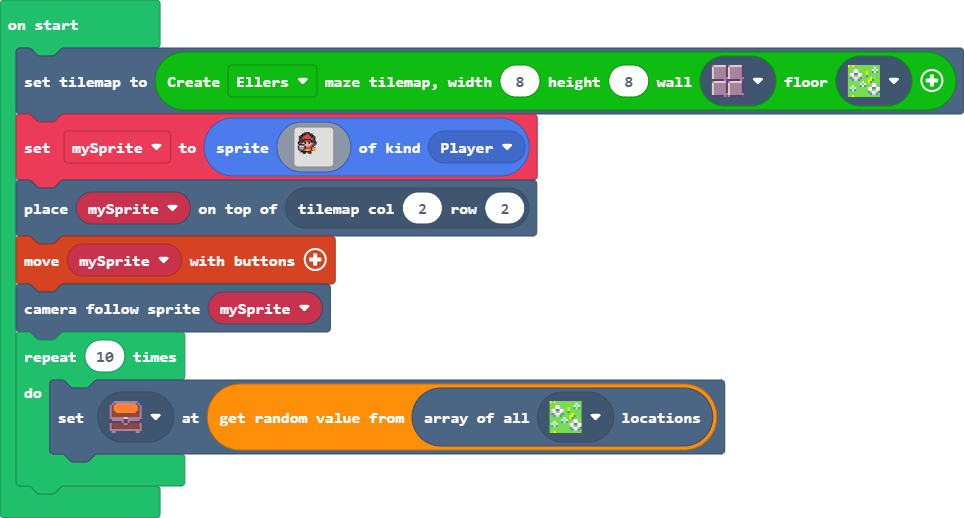
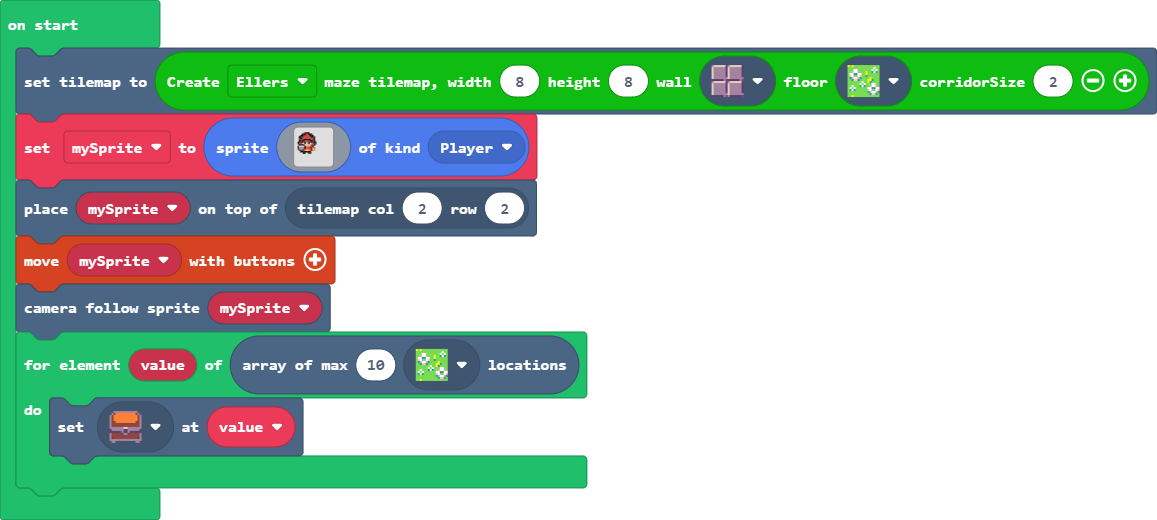
Now using FastRandom. Also added TilemapExt with block for sampling tile locations.

Changed region(s): [[0.0, 0.0, 0.9959, 1.0], [0.0, 0.0309, 0.0934, 0.0618], [0.0311, 0.9266, 0.0622, 0.9575]]

diff --git a/maze.ts b/maze.ts
@@ -6,7 +6,6 @@ enum MazeAlgorithm {
 
 //% weight=100 color=#0fbc11 icon="╬"
 namespace maze {
-
     /**
      * Generates a maze using the chosen algorithm
      * @param mazeWidth width of maze
@@ -15,15 +14,16 @@ namespace maze {
      * @param floor tile to use for floors
      * @param corridorSize width of corridors
      */
-    //% block="Create $algorithm maze tilemap, width $mazeWidth height $mazeHeight wall $wall floor $floor || corridorSize $corridorSize"
+    //% block="Create $algorithm maze tilemap, width $mazeWidth height $mazeHeight wall $wall floor $floor || corridorSize $corridorSize seed $seed"
     //% wall.shadow=tileset_tile_picker
     //% floor.shadow=tileset_tile_picker
     //% corridorSize.defl=2
     //% inlineInputMode=inline
-    export function generateTilemap(algorithm: MazeAlgorithm, mazeWidth: number, mazeHeight: number, wall: Image, floor: Image, corridorSize?: number): tiles.TileMapData {
-        return algorithm === MazeAlgorithm.BinaryTree ? generateBinaryTreeTilemap(mazeWidth, mazeHeight, wall, floor, corridorSize || 2) :
-            algorithm === MazeAlgorithm.Sidewinder ? generateSidewinderTilemap(mazeWidth, mazeHeight, wall, floor, corridorSize || 2) :
-            generateEllersTilemap(mazeWidth, mazeHeight, wall, floor, corridorSize || 2);
+    export function generateTilemap(algorithm: MazeAlgorithm, mazeWidth: number, mazeHeight: number, wall: Image, floor: Image, corridorSize?: number, seed?:number|undefined): tiles.TileMapData {
+        const rng = new Math.FastRandom(seed);
+        return algorithm === MazeAlgorithm.BinaryTree ? generateBinaryTreeTilemap(rng, mazeWidth, mazeHeight, wall, floor, corridorSize || 2) :
+            algorithm === MazeAlgorithm.Sidewinder ? generateSidewinderTilemap(rng, mazeWidth, mazeHeight, wall, floor, corridorSize || 2) :
+                generateEllersTilemap(rng, mazeWidth, mazeHeight, wall, floor, corridorSize || 2);
     }
 
     function createTilemap(mazeWidth: number, mazeHeight: number, corridorSize: number, tmTiles: Image[]): tiles.TileMapData {
@@ -51,7 +51,7 @@ namespace maze {
         return arr 
     }
 
-    function generateBinaryTreeTilemap(mazeWidth: number, mazeHeight: number, wall: Image, floor: Image, corridorSize: number): tiles.TileMapData {
+    function generateBinaryTreeTilemap(rng: Math.FastRandom, mazeWidth: number, mazeHeight: number, wall: Image, floor: Image, corridorSize: number): tiles.TileMapData {
         let tmData = createTilemap(mazeWidth,mazeHeight,corridorSize,[floor,wall]);
         fillWalls(tmData);
 
@@ -69,7 +69,7 @@ namespace maze {
                     // If right edge, carve down
                     x === xMax ? [0,1] :
                     // Pick random
-                    Math.randomRange(0,1) ? [1,0]: [0,1];
+                    rng.randomBool() ? [1,0]: [0,1];
                 // Set floor
                 for (let by = 0; by < corridorSize + cy; ++by)
                     for (let bx = 0; bx < corridorSize + cx; ++bx) {
@@ -81,7 +81,7 @@ namespace maze {
         return tmData;
     }
 
-    function generateSidewinderTilemap(mazeWidth: number, mazeHeight: number, wall: Image, floor: Image, corridorSize: number): tiles.TileMapData {
+    function generateSidewinderTilemap(rng: Math.FastRandom, mazeWidth: number, mazeHeight: number, wall: Image, floor: Image, corridorSize: number): tiles.TileMapData {
         // https://weblog.jamisbuck.org/2011/2/3/maze-generation-sidewinder-algorithm.html
         let tmData = createTilemap(mazeWidth, mazeHeight, corridorSize, [floor, wall]);
         fillWalls(tmData);
@@ -106,7 +106,7 @@ namespace maze {
                     // If right edge, carve down
                     x === xMax ? [0,1] :
                     // Pick random
-                    Math.randomRange(0,1) ? [1,0]: [0,1];
+                    rng.randomBool() ? [1,0]: [0,1];
                 
                 if(cx === 1) {
                     tx += corridorSize;
@@ -118,7 +118,7 @@ namespace maze {
                 } 
                 if(cy === 1){
                     ty += corridorSize;
-                    tx = Math.randomRange(start,end) * (corridorSize + 1) + 1;
+                    tx = rng.randomRange(start,end) * (corridorSize + 1) + 1;
                     for (let i = 0; i < corridorSize; ++i) {
                         tmData.setTile(tx+i, ty, 0);
                         tmData.setWall(tx+i, ty, false);
@@ -130,7 +130,7 @@ namespace maze {
         return tmData;
     }
 
-    function generateEllersTilemap(mazeWidth: number, mazeHeight: number, wall: Image, floor: Image, corridorSize: number): tiles.TileMapData {
+    function generateEllersTilemap(rng: Math.FastRandom, mazeWidth: number, mazeHeight: number, wall: Image, floor: Image, corridorSize: number): tiles.TileMapData {
         // https://weblog.jamisbuck.org/2010/12/29/maze-generation-eller-s-algorithm#
         let tmData = createTilemap(mazeWidth, mazeHeight, corridorSize, [floor, wall]);
         fillWalls(tmData);
@@ -144,7 +144,7 @@ namespace maze {
             for (let x = 0; x < mazeWidth; x++) {
                 let tx = x * (corridorSize + 1) + 1;
                 
-                const shouldMergeRight = x < xMax && currentRow[x] !== currentRow[x+1] && (y == yMax || Math.randomRange(0, 1));
+                const shouldMergeRight = x < xMax && currentRow[x] !== currentRow[x+1] && (y == yMax || rng.randomBool());
 
                 if (shouldMergeRight ) {
                     const setToAbsorb = currentRow[x + 1];
@@ -175,13 +175,13 @@ namespace maze {
             for (const s of Object.keys(sets)) {
                 let xs = sets[s];
                 for (let i = xs.length - 1; i > 0; i--) {
-                    const j = Math.floor(Math.random() * i);
+                    const j = Math.floor(rng.randomRange(0,i));
                     const k = xs[i];
                     xs[i] = xs[j];
                     xs[j] = k;
                 }
 
-                xs = xs.slice(0, Math.randomRange(1,xs.length));
+                xs = xs.slice(0, rng.randomRange(1,xs.length));
 
                 for (const x of xs) {
                     let tx = x * (corridorSize + 1) + 1;

diff --git a/main.ts b/main.ts
@@ -1,4 +1,4 @@
-tiles.setCurrentTilemap(maze.generateTilemap(MazeAlgorithm.Ellers, 8, 8, sprites.dungeon.floorDark0, sprites.castle.tileGrass2))
+tiles.setCurrentTilemap(maze.generateTilemap(MazeAlgorithm.Ellers, 8, 8, sprites.dungeon.floorDark0, sprites.castle.tileGrass2, 2))
 let mySprite = sprites.create(img`
     ........................
     .....ffff...............
@@ -28,6 +28,6 @@ let mySprite = sprites.create(img`
 tiles.placeOnTile(mySprite, tiles.getTileLocation(2, 2))
 controller.moveSprite(mySprite)
 scene.cameraFollowSprite(mySprite)
-for (let index = 0; index < 10; index++) {
-    tiles.setTileAt(tiles.getTilesByType(sprites.castle.tileGrass2)._pickRandom(), sprites.dungeon.chestClosed)
+for (let value of getRandomTilesByType(sprites.castle.tileGrass2, 10)) {
+    tiles.setTileAt(value, sprites.dungeon.chestClosed)
 }

diff --git a/tilemapExt.ts b/tilemapExt.ts
@@ -1,0 +1,16 @@
+// Add your code here
+/**
+ * Get a random tile of the given type
+ * @param tile the type of tile to get a random selection of
+ */
+//% blockNamespace=scene
+//% group=Locations
+//% block="array of max $maxCount $tile locations"
+//% tile.shadow=tileset_tile_picker
+function getRandomTilesByType(tile: Image, maxCount: number): tiles.Location[] {
+    const scene = game.currentScene();
+    if (!tile || !scene.tileMap)
+        return undefined;
+    const index = scene.tileMap.getImageType(tile);
+    return scene.tileMap.sampleTilesByType(index, maxCount);
+}
